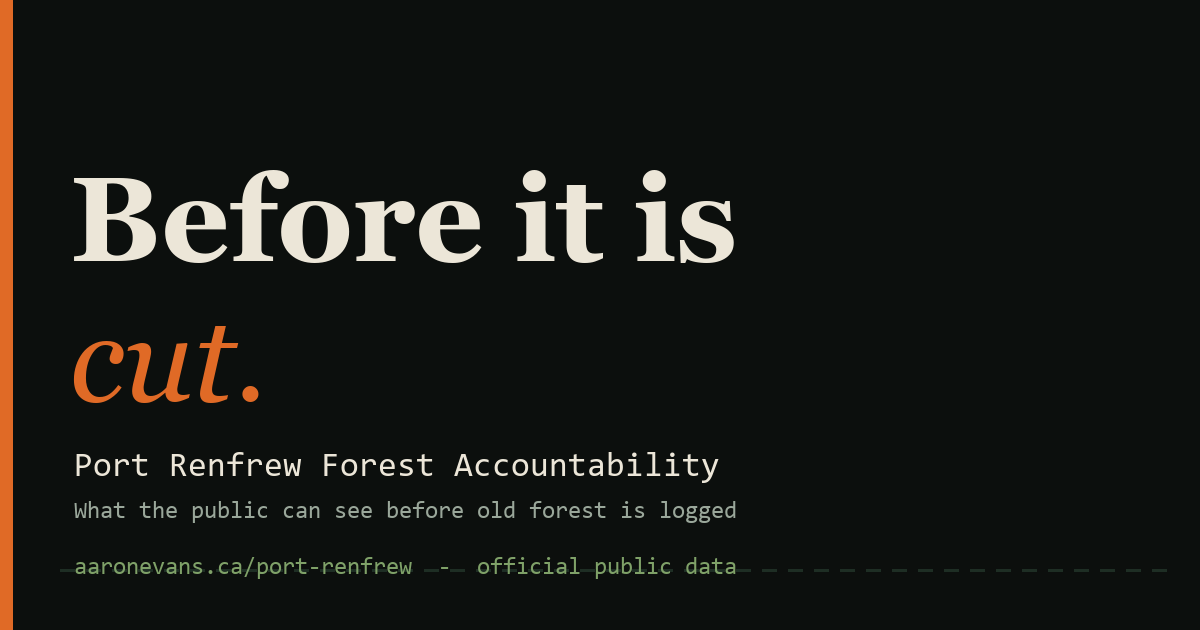
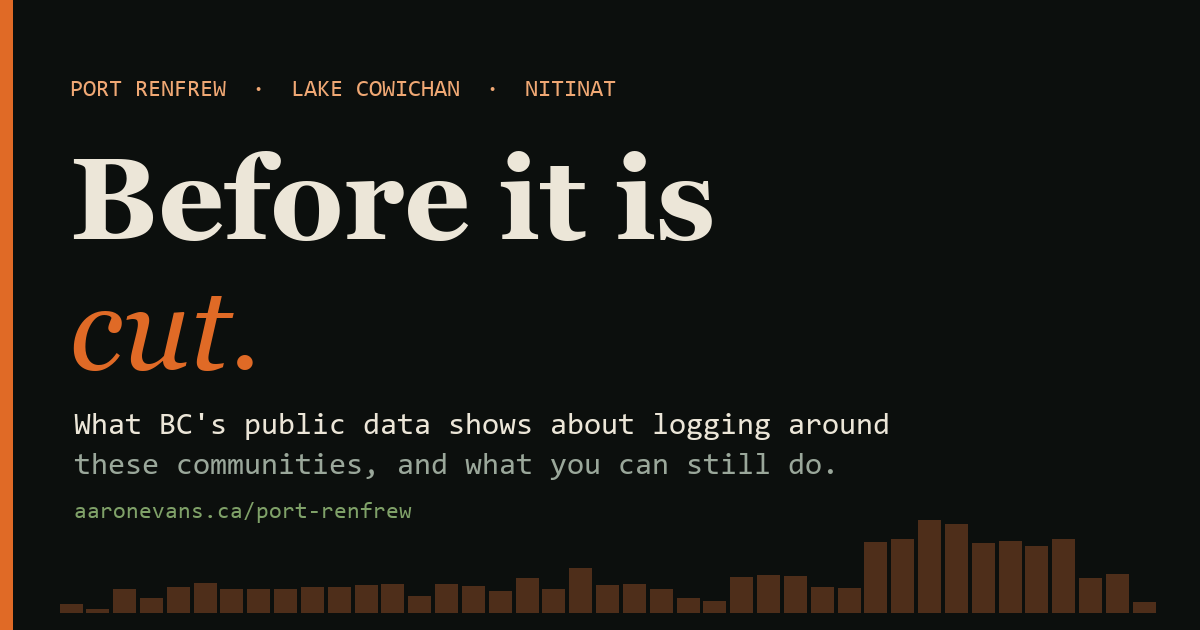
Add a data-driven Open Graph share card and reference it site-wide
Regenerated the 1200x630 share image to cover all three areas, with the real recorded-harvest-by-year bars as the visual motif. Every page now references it as og:image with a summary_large_image Twitter card, so a shared link (to AFA or anyone) shows a branded preview instead of a blank box.

diff --git a/port-renfrew/alerts.html b/port-renfrew/alerts.html
@@ -9,7 +9,11 @@
 <meta property="og:title" content="Open for comment right now">
 <meta property="og:description" content="Forest Operations Map blocks near Port Renfrew, Lake Cowichan, and Nitinat with an open public comment period right now. Subscribe to the feed.">
 <meta property="og:url" content="https://aaronevans.ca/port-renfrew/alerts.html">
-<meta name="twitter:card" content="summary">
+<meta property="og:image" content="https://aaronevans.ca/port-renfrew/images/og-card.png">
+<meta property="og:image:width" content="1200">
+<meta property="og:image:height" content="630">
+<meta name="twitter:card" content="summary_large_image">
+<meta name="twitter:image" content="https://aaronevans.ca/port-renfrew/images/og-card.png">
 <link rel="preconnect" href="https://fonts.googleapis.com">
 <link rel="preconnect" href="https://fonts.gstatic.com" crossorigin>
 <link href="https://fonts.googleapis.com/css2?family=Fraunces:opsz,wght@9..144,400;9..144,600;9..144,900&family=Newsreader:opsz,wght@6..72,300;6..72,400;6..72,500&family=IBM+Plex+Mono:wght@400;500&display=swap" rel="stylesheet">

diff --git a/port-renfrew/areas.html b/port-renfrew/areas.html
@@ -9,7 +9,11 @@
 <meta property="og:title" content="Choose your area">
 <meta property="og:description" content="Port Renfrew, Lake Cowichan, or Nitinat: pick the area you care about.">
 <meta property="og:url" content="https://aaronevans.ca/port-renfrew/areas.html">
-<meta name="twitter:card" content="summary">
+<meta property="og:image" content="https://aaronevans.ca/port-renfrew/images/og-card.png">
+<meta property="og:image:width" content="1200">
+<meta property="og:image:height" content="630">
+<meta name="twitter:card" content="summary_large_image">
+<meta name="twitter:image" content="https://aaronevans.ca/port-renfrew/images/og-card.png">
 <link rel="preconnect" href="https://fonts.googleapis.com">
 <link rel="preconnect" href="https://fonts.gstatic.com" crossorigin>
 <link href="https://fonts.googleapis.com/css2?family=Fraunces:opsz,wght@9..144,400;9..144,600;9..144,900&family=Newsreader:opsz,wght@6..72,300;6..72,400;6..72,500&family=IBM+Plex+Mono:wght@400;500&display=swap" rel="stylesheet">

diff --git a/port-renfrew/comment-assistant.html b/port-renfrew/comment-assistant.html
@@ -9,7 +9,11 @@
 <meta property="og:title" content="Comment Assistant - Port Renfrew">
 <meta property="og:description" content="Ready-made Forest Operations Map comments for blocks near Port Renfrew that still have an open comment period.">
 <meta property="og:url" content="https://aaronevans.ca/port-renfrew/comment-assistant.html">
-<meta name="twitter:card" content="summary">
+<meta property="og:image" content="https://aaronevans.ca/port-renfrew/images/og-card.png">
+<meta property="og:image:width" content="1200">
+<meta property="og:image:height" content="630">
+<meta name="twitter:card" content="summary_large_image">
+<meta name="twitter:image" content="https://aaronevans.ca/port-renfrew/images/og-card.png">
 <link rel="preconnect" href="https://fonts.googleapis.com">
 <link rel="preconnect" href="https://fonts.gstatic.com" crossorigin>
 <link href="https://fonts.googleapis.com/css2?family=Fraunces:opsz,wght@9..144,400;9..144,600;9..144,900&family=Newsreader:opsz,wght@6..72,300;6..72,400;6..72,500&family=IBM+Plex+Mono:wght@400;500&display=swap" rel="stylesheet">

diff --git a/port-renfrew/corporate.html b/port-renfrew/corporate.html
@@ -9,7 +9,11 @@
 <meta property="og:title" content="Who profits, who pays">
 <meta property="og:description" content="Forestry finances and public value.">
 <meta property="og:url" content="https://aaronevans.ca/port-renfrew/corporate.html">
-<meta name="twitter:card" content="summary">
+<meta property="og:image" content="https://aaronevans.ca/port-renfrew/images/og-card.png">
+<meta property="og:image:width" content="1200">
+<meta property="og:image:height" content="630">
+<meta name="twitter:card" content="summary_large_image">
+<meta name="twitter:image" content="https://aaronevans.ca/port-renfrew/images/og-card.png">
 <link rel="preconnect" href="https://fonts.googleapis.com">
 <link rel="preconnect" href="https://fonts.gstatic.com" crossorigin>
 <link href="https://fonts.googleapis.com/css2?family=Fraunces:opsz,wght@9..144,400;9..144,600;9..144,900&family=Newsreader:opsz,wght@6..72,300;6..72,400;6..72,500&family=IBM+Plex+Mono:wght@400;500&display=swap" rel="stylesheet">

diff --git a/port-renfrew/fish-and-forest.html b/port-renfrew/fish-and-forest.html
@@ -9,7 +9,11 @@
 <meta property="og:title" content="Fish and the forest">
 <meta property="og:description" content="The salmon runs, and the logging above them.">
 <meta property="og:url" content="https://aaronevans.ca/port-renfrew/fish-and-forest.html">
-<meta name="twitter:card" content="summary">
+<meta property="og:image" content="https://aaronevans.ca/port-renfrew/images/og-card.png">
+<meta property="og:image:width" content="1200">
+<meta property="og:image:height" content="630">
+<meta name="twitter:card" content="summary_large_image">
+<meta name="twitter:image" content="https://aaronevans.ca/port-renfrew/images/og-card.png">
 <link rel="preconnect" href="https://fonts.googleapis.com">
 <link rel="preconnect" href="https://fonts.gstatic.com" crossorigin>
 <link href="https://fonts.googleapis.com/css2?family=Fraunces:opsz,wght@9..144,400;9..144,600;9..144,900&family=Newsreader:opsz,wght@6..72,300;6..72,400;6..72,500&family=IBM+Plex+Mono:wght@400;500&display=swap" rel="stylesheet">

diff --git a/port-renfrew/for-reviewers.html b/port-renfrew/for-reviewers.html
@@ -9,7 +9,11 @@
 <meta property="og:title" content="A second opinion, please">
 <meta property="og:description" content="Logging around Port Renfrew, Lake Cowichan, and Nitinat on the BC government&#x27;s own public data: what has been logged, what is proposed for logging next, and how to comment.">
 <meta property="og:url" content="https://aaronevans.ca/port-renfrew/for-reviewers.html">
-<meta name="twitter:card" content="summary">
+<meta property="og:image" content="https://aaronevans.ca/port-renfrew/images/og-card.png">
+<meta property="og:image:width" content="1200">
+<meta property="og:image:height" content="630">
+<meta name="twitter:card" content="summary_large_image">
+<meta name="twitter:image" content="https://aaronevans.ca/port-renfrew/images/og-card.png">
 <link rel="preconnect" href="https://fonts.googleapis.com">
 <link rel="preconnect" href="https://fonts.gstatic.com" crossorigin>
 <link href="https://fonts.googleapis.com/css2?family=Fraunces:opsz,wght@9..144,400;9..144,600;9..144,900&family=Newsreader:opsz,wght@6..72,300;6..72,400;6..72,500&family=IBM+Plex+Mono:wght@400;500&display=swap" rel="stylesheet">

diff --git a/port-renfrew/full-cost.html b/port-renfrew/full-cost.html
@@ -9,7 +9,11 @@
 <meta property="og:title" content="The full cost">
 <meta property="og:description" content="What the logging is really worth to the public.">
 <meta property="og:url" content="https://aaronevans.ca/port-renfrew/full-cost.html">
-<meta name="twitter:card" content="summary">
+<meta property="og:image" content="https://aaronevans.ca/port-renfrew/images/og-card.png">
+<meta property="og:image:width" content="1200">
+<meta property="og:image:height" content="630">
+<meta name="twitter:card" content="summary_large_image">
+<meta name="twitter:image" content="https://aaronevans.ca/port-renfrew/images/og-card.png">
 <link rel="preconnect" href="https://fonts.googleapis.com">
 <link rel="preconnect" href="https://fonts.gstatic.com" crossorigin>
 <link href="https://fonts.googleapis.com/css2?family=Fraunces:opsz,wght@9..144,400;9..144,600;9..144,900&family=Newsreader:opsz,wght@6..72,300;6..72,400;6..72,500&family=IBM+Plex+Mono:wght@400;500&display=swap" rel="stylesheet">

diff --git a/port-renfrew/how-to-check.html b/port-renfrew/how-to-check.html
@@ -9,7 +9,11 @@
 <meta property="og:title" content="How to check logging near you">
 <meta property="og:description" content="Use the same public data for any area in BC.">
 <meta property="og:url" content="https://aaronevans.ca/port-renfrew/how-to-check.html">
-<meta name="twitter:card" content="summary">
+<meta property="og:image" content="https://aaronevans.ca/port-renfrew/images/og-card.png">
+<meta property="og:image:width" content="1200">
+<meta property="og:image:height" content="630">
+<meta name="twitter:card" content="summary_large_image">
+<meta name="twitter:image" content="https://aaronevans.ca/port-renfrew/images/og-card.png">
 <link rel="preconnect" href="https://fonts.googleapis.com">
 <link rel="preconnect" href="https://fonts.gstatic.com" crossorigin>
 <link href="https://fonts.googleapis.com/css2?family=Fraunces:opsz,wght@9..144,400;9..144,600;9..144,900&family=Newsreader:opsz,wght@6..72,300;6..72,400;6..72,500&family=IBM+Plex+Mono:wght@400;500&display=swap" rel="stylesheet">

diff --git a/port-renfrew/how-to-use-map.html b/port-renfrew/how-to-use-map.html
@@ -9,7 +9,11 @@
 <meta property="og:title" content="How to use the map">
 <meta property="og:description" content="A beginner&#x27;s guide to the layers.">
 <meta property="og:url" content="https://aaronevans.ca/port-renfrew/how-to-use-map.html">
-<meta name="twitter:card" content="summary">
+<meta property="og:image" content="https://aaronevans.ca/port-renfrew/images/og-card.png">
+<meta property="og:image:width" content="1200">
+<meta property="og:image:height" content="630">
+<meta name="twitter:card" content="summary_large_image">
+<meta name="twitter:image" content="https://aaronevans.ca/port-renfrew/images/og-card.png">
 <link rel="preconnect" href="https://fonts.googleapis.com">
 <link rel="preconnect" href="https://fonts.gstatic.com" crossorigin>
 <link href="https://fonts.googleapis.com/css2?family=Fraunces:opsz,wght@9..144,400;9..144,600;9..144,900&family=Newsreader:opsz,wght@6..72,300;6..72,400;6..72,500&family=IBM+Plex+Mono:wght@400;500&display=swap" rel="stylesheet">

diff --git a/port-renfrew/lake-cowichan-comment-assistant.html b/port-renfrew/lake-cowichan-comment-assistant.html
@@ -9,7 +9,11 @@
 <meta property="og:title" content="Comment Assistant - Lake Cowichan">
 <meta property="og:description" content="Ready-made Forest Operations Map comments for blocks near Lake Cowichan that still have an open comment period.">
 <meta property="og:url" content="https://aaronevans.ca/port-renfrew/lake-cowichan-comment-assistant.html">
-<meta name="twitter:card" content="summary">
+<meta property="og:image" content="https://aaronevans.ca/port-renfrew/images/og-card.png">
+<meta property="og:image:width" content="1200">
+<meta property="og:image:height" content="630">
+<meta name="twitter:card" content="summary_large_image">
+<meta name="twitter:image" content="https://aaronevans.ca/port-renfrew/images/og-card.png">
 <link rel="preconnect" href="https://fonts.googleapis.com">
 <link rel="preconnect" href="https://fonts.gstatic.com" crossorigin>
 <link href="https://fonts.googleapis.com/css2?family=Fraunces:opsz,wght@9..144,400;9..144,600;9..144,900&family=Newsreader:opsz,wght@6..72,300;6..72,400;6..72,500&family=IBM+Plex+Mono:wght@400;500&display=swap" rel="stylesheet">

diff --git a/port-renfrew/lake-cowichan-proposed-logging-watch.html b/port-renfrew/lake-cowichan-proposed-logging-watch.html
@@ -9,7 +9,11 @@
 <meta property="og:title" content="What&#x27;s proposed to be logged next - Lake Cowichan">
 <meta property="og:description" content="Blocks proposed or approved for logging around Lake Cowichan, ranked by what they sit near, with the real public comment deadline for each.">
 <meta property="og:url" content="https://aaronevans.ca/port-renfrew/lake-cowichan-proposed-logging-watch.html">
-<meta name="twitter:card" content="summary">
+<meta property="og:image" content="https://aaronevans.ca/port-renfrew/images/og-card.png">
+<meta property="og:image:width" content="1200">
+<meta property="og:image:height" content="630">
+<meta name="twitter:card" content="summary_large_image">
+<meta name="twitter:image" content="https://aaronevans.ca/port-renfrew/images/og-card.png">
 <link rel="preconnect" href="https://fonts.googleapis.com">
 <link rel="preconnect" href="https://fonts.gstatic.com" crossorigin>
 <link href="https://fonts.googleapis.com/css2?family=Fraunces:opsz,wght@9..144,400;9..144,600;9..144,900&family=Newsreader:opsz,wght@6..72,300;6..72,400;6..72,500&family=IBM+Plex+Mono:wght@400;500&display=swap" rel="stylesheet">

diff --git a/port-renfrew/logging-trends.html b/port-renfrew/logging-trends.html
@@ -9,7 +9,11 @@
 <meta property="og:title" content="How much is being logged">
 <meta property="og:description" content="How much forest has been logged around Port Renfrew, Lake Cowichan, and Nitinat over time, by year, and how much is proposed next.">
 <meta property="og:url" content="https://aaronevans.ca/port-renfrew/logging-trends.html">
-<meta name="twitter:card" content="summary">
+<meta property="og:image" content="https://aaronevans.ca/port-renfrew/images/og-card.png">
+<meta property="og:image:width" content="1200">
+<meta property="og:image:height" content="630">
+<meta name="twitter:card" content="summary_large_image">
+<meta name="twitter:image" content="https://aaronevans.ca/port-renfrew/images/og-card.png">
 <link rel="preconnect" href="https://fonts.googleapis.com">
 <link rel="preconnect" href="https://fonts.gstatic.com" crossorigin>
 <link href="https://fonts.googleapis.com/css2?family=Fraunces:opsz,wght@9..144,400;9..144,600;9..144,900&family=Newsreader:opsz,wght@6..72,300;6..72,400;6..72,500&family=IBM+Plex+Mono:wght@400;500&display=swap" rel="stylesheet">